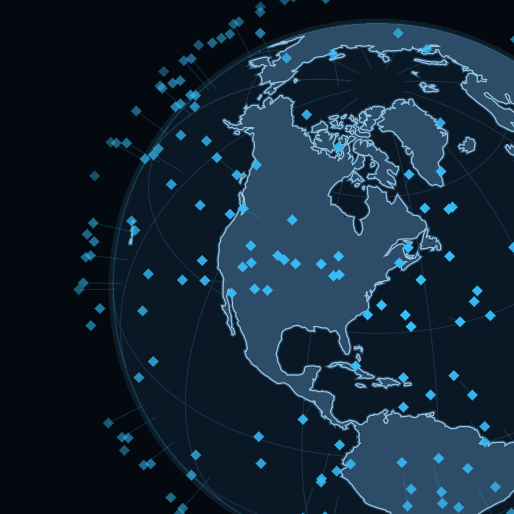
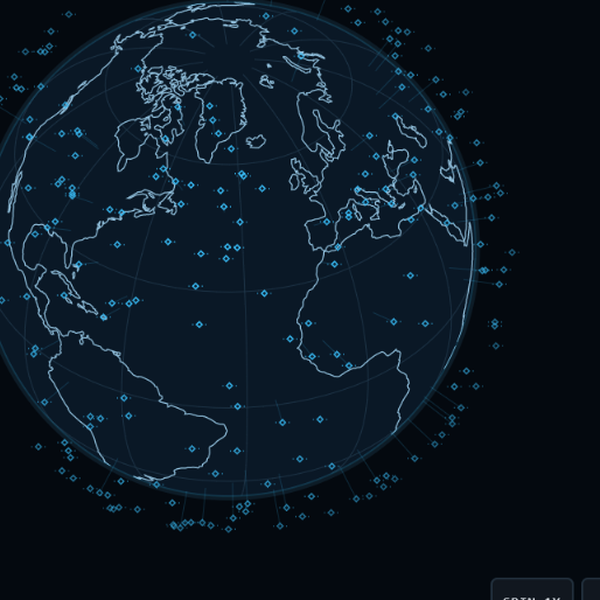
Stop filling the globe's land, which kept painting blocks over the ocean
Every way the land has been filled on this globe - filling the coastline rings,
then a grid of cells through a vertex mesh, then the same grid as one path - has at
some rotation painted rectangles of land colour across open ocean, and that is the
checked pattern the globe kept being reported for. The fill is gone; the land is
drawn as coastline, which cannot flood anything, and the check is now clean over a
full rotation (no land-coloured pixels anywhere, so nothing to score).

Satellites are marked with a small outlined diamond, picked by hashing catalogue
numbers so they sit where the constellations are rather than in rows.

The map and board panes drop the telemetry column, then narrow the rail, when the
window is too small to hold both, and the window has a floor of 1100x700: below
that the globe was squeezed to a dot with the panels riding over it.

🤖 Generated with Codebuff

diff --git a/desktop/src/main/java/dev/skyward/rf/desktop/ui/MapView.kt b/desktop/src/main/java/dev/skyward/rf/desktop/ui/MapView.kt
@@ -521,25 +521,29 @@ private fun DrawScope.drawMap(
         // wings. Fading towards the limb keeps the marks near the edge from drawing a hard ring of
         // identical squares, which is what made the sky look tiled.
         val face = pt[2].coerceIn(0f, 1f)
-        drawSatGlyph(at, 13.dp.toPx(), Desk.cyan.copy(alpha = 0.35f + 0.65f * face))
+        drawSatGlyph(at, 12.dp.toPx(), Desk.cyan.copy(alpha = 0.45f + 0.55f * face))
     }
 }
 
 /**
- * The satellite mark: a single diamond, [size] across. It has no straight edge facing a neighbour,
- * so a sky full of them cannot tile into the checkered sheet that square marks kept forming, and
- * the wings are gone because rows of horizontal bars read as hatching across the whole globe.
+ * The satellite mark: the layer glyph's body and its two solar wings, drawn as a thin outline.
+ * A filled mark at this size turned a field of them into a sheet of blocks; an outline keeps each
+ * one reading as a satellite without any of them touching its neighbour.
  */
 private fun DrawScope.drawSatGlyph(at: Offset, size: Float, color: Color) {
-    val half = size * 0.34f
+    val line = (size * 0.10f).coerceAtLeast(1.2f)
+    val body = size * 0.20f
     val diamond = Path().apply {
-        moveTo(at.x, at.y - half)
-        lineTo(at.x + half, at.y)
-        lineTo(at.x, at.y + half)
-        lineTo(at.x - half, at.y)
+        moveTo(at.x, at.y - body)
+        lineTo(at.x + body, at.y)
+        lineTo(at.x, at.y + body)
+        lineTo(at.x - body, at.y)
         close()
     }
-    drawPath(diamond, color)
+    drawPath(diamond, color, style = Stroke(width = line))
+    val gap = body * 2.2f
+    drawLine(color, Offset(at.x - size * 0.5f, at.y), Offset(at.x - gap, at.y), strokeWidth = line)
+    drawLine(color, Offset(at.x + gap, at.y), Offset(at.x + size * 0.5f, at.y), strokeWidth = line)
 }
 
 /** The sphere only: ocean, graticule, continents, rim. Markers are drawn by the caller. */
@@ -594,12 +598,10 @@ private fun DrawScope.drawGlobeSphere(
         while (parallel <= 60.0) { line(parallel, -180.0, parallel, 180.0, 96); parallel += 30.0 }
         drawPath(grid, Color(0xFF1E3548).copy(alpha = alpha), style = Stroke(width = 0.7.dp.toPx()))
 
-        // Land is drawn as a mesh of the cells that the coastline rings cover, not by filling the
-        // rings themselves. A ring that passes behind the horizon mirrors its far half onto the
-        // near half, and any polygon fill of it then covers ocean - the checkered pattern this was
-        // reported for. Cells are decided on in longitude and latitude instead, where there is no
-        // horizon to fold over, so the fill lands exactly on the coast at every rotation.
-        drawLandMesh(rings, center, radius, alpha, sinLat0, cosLat0, lon0, cosTilt, sinTilt)
+        // The land is drawn as coastline, not filled. Every fill this globe has had - filling the
+        // rings, filling the cells of a longitude/latitude grid, through a vertex mesh or a path -
+        // has at some rotation painted blocks of land colour across open ocean, and that is the
+        // checked pattern the globe kept being reported for. An outline cannot do that.
 
         val coast = Path()
         val HORIZON = 0.02f
@@ -692,193 +694,9 @@ private fun DrawScope.drawGlobeSphere(
             }
             flush()
         }
-        // The mesh ends on a one-degree staircase, so the pale line alone floats in and out of the
-        // fill. Stroking the coast in the land colour first covers the steps, and the land then ends
-        // where the outline says it does.
-        drawPath(coast, Color(0xFF2C4C68).copy(alpha = alpha), style = Stroke(width = 2.8.dp.toPx()))
         drawPath(coast, Color(0xFF9ED2F0).copy(alpha = 0.9f * alpha), style = Stroke(width = 1.dp.toPx()))
     }
 
     drawCircle(Desk.cyan.copy(alpha = 0.22f * alpha), radius = radius, center = center, style = Stroke(1.4.dp.toPx()))
     drawCircle(Color(0xFF5AC8FF).copy(alpha = 0.10f * alpha), radius = radius * 1.01f, center = center, style = Stroke(3.dp.toPx()))
-}
-
-/** Land coverage on a 2-degree longitude/latitude grid, worked out once from the coastline rings. */
-private object LandCover {
-    const val X = 360
-    const val Y = 180
-
-    private var maskedRings: Array<FloatArray>? = null
-    private var cells: BooleanArray? = null
-
-    fun mask(rings: Array<FloatArray>): BooleanArray {
-        val cached = cells
-        if (cached != null && maskedRings === rings) return cached
-        val out = BooleanArray(X * Y)
-        for (ring in rings) {
-            val n = ring.size / 2
-            if (n < 3) continue
-            var minLon = Double.MAX_VALUE
-            var maxLon = -Double.MAX_VALUE
-            var minLat = Double.MAX_VALUE
-            var maxLat = -Double.MAX_VALUE
-            for (k in 0 until n) {
-                val lon = ring[2 * k].toDouble()
-                val lat = ring[2 * k + 1].toDouble()
-                if (lon < minLon) minLon = lon
-                if (lon > maxLon) maxLon = lon
-                if (lat < minLat) minLat = lat
-                if (lat > maxLat) maxLat = lat
-            }
-            val i0 = (((minLon + 180.0) / 360.0) * X).toInt().coerceIn(0, X - 1)
-            val i1 = (((maxLon + 180.0) / 360.0) * X).toInt().coerceIn(0, X - 1)
-            val j0 = (((90.0 - maxLat) / 180.0) * Y).toInt().coerceIn(0, Y - 1)
-            val j1 = (((90.0 - minLat) / 180.0) * Y).toInt().coerceIn(0, Y - 1)
-            for (j in j0..j1) {
-                val lat = 90.0 - (j + 0.5) * 180.0 / Y
-                for (i in i0..i1) {
-                    val at = j * X + i
-                    if (out[at]) continue
-                    val lon = -180.0 + (i + 0.5) * 360.0 / X
-                    if (inside(ring, n, lon, lat)) out[at] = true
-                }
-            }
-        }
-        maskedRings = rings
-        cells = out
-        return out
-    }
-
-    private fun inside(ring: FloatArray, n: Int, lon: Double, lat: Double): Boolean {
-        var inside = false
-        var j = n - 1
-        for (i in 0 until n) {
-            val xi = ring[2 * i].toDouble()
-            val yi = ring[2 * i + 1].toDouble()
-            val xj = ring[2 * j].toDouble()
-            val yj = ring[2 * j + 1].toDouble()
-            if ((yi > lat) != (yj > lat) && lon < (xj - xi) * (lat - yi) / (yj - yi) + xi) {
-                inside = !inside
-            }
-            j = i
-        }
-        return inside
-    }
-}
-
-
-/** Buffers for the land mesh, sized once and reused so a fine mesh costs no allocation per frame. */
-private class LandMeshScratch(val xs: FloatArray, val ys: FloatArray, val depth: FloatArray,
-                              val positions: FloatArray, val indices: ShortArray) {
-    companion object {
-        private var cached: LandMeshScratch? = null
-
-        fun of(cols: Int, rows: Int, cells: Int): LandMeshScratch {
-            val have = cached
-            if (have != null && have.xs.size == cols * rows) return have
-            val made = LandMeshScratch(
-                FloatArray(cols * rows),
-                FloatArray(cols * rows),
-                FloatArray(cols * rows),
-                FloatArray(cols * rows * 2),
-                ShortArray(cells * 6),
-            )
-            cached = made
-            return made
-        }
-    }
-}
-
-/**
- * Draws the land as triangles over the near side of the ball.
- *
- * Each covered grid cell becomes two triangles when all four of its corners sit in front of the
- * horizon; a cell that reaches over the limb is skipped, and the coast outline drawn over the top
- * carries the silhouette there. Nothing here can paint the far side, which is what the polygon
- * fills kept doing.
- */
-private fun DrawScope.drawLandMesh(
-    rings: Array<FloatArray>,
-    center: Offset,
-    radius: Float,
-    alpha: Float,
-    sinLat0: Double,
-    cosLat0: Double,
-    lon0: Double,
-    cosTilt: Double,
-    sinTilt: Double,
-) {
-    val mask = LandCover.mask(rings)
-    val cols = LandCover.X + 1
-    val rows = LandCover.Y + 1
-    // Reused between frames: a one-degree mesh is sixty-five thousand points, and allocating that
-    // every frame is what makes a smooth globe expensive rather than the drawing itself.
-    val scratch = LandMeshScratch.of(cols, rows, LandCover.X * LandCover.Y)
-    val xs = scratch.xs
-    val ys = scratch.ys
-    val depth = scratch.depth
-    for (j in 0 until rows) {
-        val la = Math.toRadians((90.0 - j * 180.0 / LandCover.Y).coerceIn(-89.9, 89.9))
-        val sinLa = sin(la)
-        val cosLa = cos(la)
-        for (i in 0 until cols) {
-            val dLon = Math.toRadians(-180.0 + i * 360.0 / LandCover.X) - lon0
-            val cosc = sinLat0 * sinLa + cosLat0 * cosLa * cos(dLon)
-            val y3 = cosLat0 * sinLa - sinLat0 * cosLa * cos(dLon)
-            val at = j * cols + i
-            xs[at] = (center.x + radius * (cosLa * sin(dLon))).toFloat()
-            ys[at] = (center.y - radius * (y3 * cosTilt - cosc * sinTilt)).toFloat()
-            depth[at] = (y3 * sinTilt + cosc * cosTilt).toFloat()
-        }
-    }
-
-    val positions = scratch.positions
-    for (at in 0 until cols * rows) {
-        positions[at * 2] = xs[at]
-        positions[at * 2 + 1] = ys[at]
-    }
-    val indices = scratch.indices
-    var used = 0
-    for (j in 0 until LandCover.Y) {
-        for (i in 0 until LandCover.X) {
-            if (!mask[j * LandCover.X + i]) continue
-            val a = j * cols + i
-            val b = a + 1
-            val c = a + cols
-            val d = c + 1
-            if (depth[a] <= 0.02f || depth[b] <= 0.02f || depth[c] <= 0.02f || depth[d] <= 0.02f) continue
-            indices[used++] = a.toShort()
-            indices[used++] = b.toShort()
-            indices[used++] = d.toShort()
-            indices[used++] = a.toShort()
-            indices[used++] = d.toShort()
-            indices[used++] = c.toShort()
-        }
-    }
-    if (used == 0) return
-    val argb = ((alpha.coerceIn(0f, 1f) * 255f).toInt() shl 24) or 0x2C4C68
-    drawIntoCanvas { canvas ->
-        val paint = org.jetbrains.skia.Paint().apply {
-            color = argb
-            isAntiAlias = false
-        }
-        // Drawing straight onto the Skia canvas leaves its state changed for whatever is painted
-        // next, and the panels and their glyphs came out blank because of it. Save and restore it
-        // so this draw stays a closed box.
-        val native = canvas.nativeCanvas
-        val save = native.save()
-        try {
-            native.drawVertices(
-                org.jetbrains.skia.VertexMode.TRIANGLES,
-                positions,
-                null,
-                null,
-                indices.copyOf(used),
-                org.jetbrains.skia.BlendMode.SRC_OVER,
-                paint,
-            )
-        } finally {
-            native.restoreToCount(save)
-        }
-    }
 }

diff --git a/desktop/src/main/java/dev/skyward/rf/desktop/ui/CommandCenter.kt b/desktop/src/main/java/dev/skyward/rf/desktop/ui/CommandCenter.kt
@@ -5,6 +5,7 @@ import androidx.compose.foundation.border
 import androidx.compose.foundation.clickable
 import androidx.compose.foundation.layout.Arrangement
 import androidx.compose.foundation.layout.Box
+import androidx.compose.foundation.layout.BoxWithConstraints
 import androidx.compose.foundation.layout.Column
 import androidx.compose.foundation.layout.PaddingValues
 import androidx.compose.foundation.layout.Row
@@ -310,11 +311,18 @@ private fun MapPane(
     onSpin: () -> Unit,
     logged: Map<String, Int>,
 ) {
+    // The rail and the telemetry column are fixed widths, and together they can add up to more
+    // than the window: the globe was then squeezed to a dot and the panels rode over it. Narrow
+    // the window and the telemetry column goes first, then the rail narrows, so the map - the
+    // thing this pane exists for - always keeps its room.
+    BoxWithConstraints(modifier.fillMaxWidth()) {
+    val showTelemetry = maxWidth >= 1180.dp
+    val railWidth = if (maxWidth >= 1000.dp) 280.dp else 210.dp
     Row(modifier.fillMaxWidth()) {
         // The rail and the layer panel share one column: the panel is a header that opens over
         // the sensors, so switching a layer never covers the map being read.
         var intelOpen by remember { mutableStateOf(false) }
-        Box(Modifier.width(280.dp).fillMaxHeight()) {
+        Box(Modifier.width(railWidth).fillMaxHeight()) {
             SensorsRail(
                 modifier = Modifier.fillMaxSize(),
                 ports = ports,
@@ -363,8 +371,11 @@ private fun MapPane(
             spin = spin,
             onSpin = onSpin,
         )
-        VerticalHairline()
-        Telemetry(modifier = Modifier.width(420.dp).fillMaxHeight(), board = active)
+        if (showTelemetry) {
+            VerticalHairline()
+            Telemetry(modifier = Modifier.width(420.dp).fillMaxHeight(), board = active)
+        }
+    }
     }
 }
 
@@ -381,9 +392,12 @@ private fun BoardPane(
     active: BoardState?,
     console: List<ConsoleLine>,
 ) {
+    BoxWithConstraints(modifier.fillMaxWidth()) {
+    val showTelemetry = maxWidth >= 1240.dp
+    val railWidth = if (maxWidth >= 1000.dp) 310.dp else 230.dp
     Row(modifier.fillMaxWidth()) {
         SensorsRail(
-            modifier = Modifier.width(310.dp).fillMaxHeight(),
+            modifier = Modifier.width(railWidth).fillMaxHeight(),
             ports = ports,
             boards = boards,
             activePath = activePath,
@@ -397,8 +411,11 @@ private fun BoardPane(
             lines = console,
             host = host,
         )
-        VerticalHairline()
-        Telemetry(modifier = Modifier.width(480.dp).fillMaxHeight(), board = active)
+        if (showTelemetry) {
+            VerticalHairline()
+            Telemetry(modifier = Modifier.width(480.dp).fillMaxHeight(), board = active)
+        }
+    }
     }
 }
 

diff --git a/desktop/src/main/java/dev/skyward/rf/desktop/Main.kt b/desktop/src/main/java/dev/skyward/rf/desktop/Main.kt
@@ -15,6 +15,7 @@ import dev.skyward.rf.desktop.ui.DeskTheme
 import kotlinx.coroutines.CoroutineScope
 import kotlinx.coroutines.Dispatchers
 import kotlinx.coroutines.SupervisorJob
+import java.awt.Dimension
 import java.io.File
 
 /**
@@ -48,6 +49,9 @@ fun main() = application {
         // the session bar below the screen edge on a 864-pixel-tall display.
         state = rememberWindowState(placement = WindowPlacement.Maximized),
     ) {
+        // The panes are laid out in fixed-width columns; below this the globe loses its room and
+        // the telemetry panel rides over the map, so the window is not allowed to get smaller.
+        LaunchedEffect(Unit) { window.minimumSize = Dimension(1100, 700) }
         DeskTheme {
             CommandCenter(host, recorder, sky)
         }
